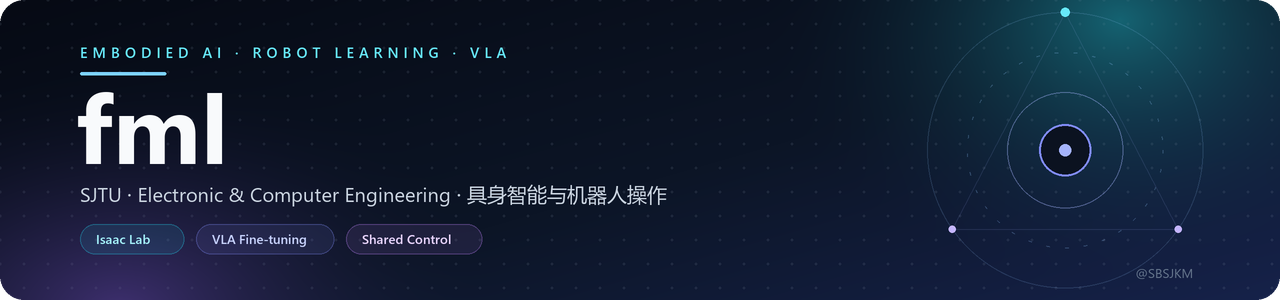
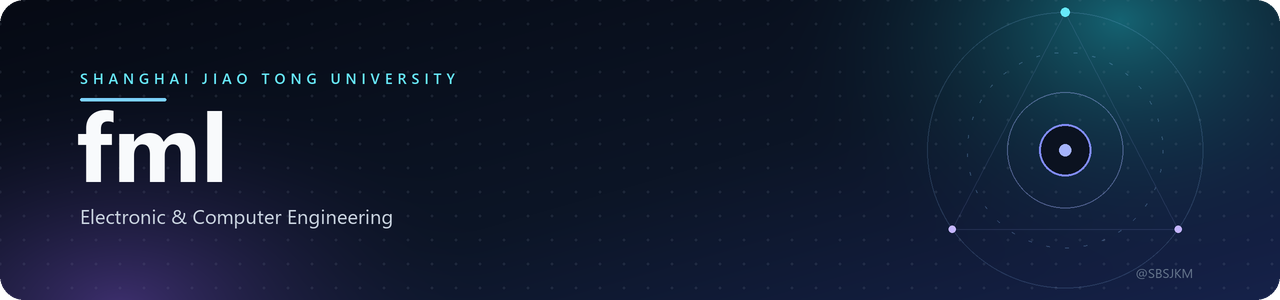
chore: simplify profile to name, school, email

diff --git a/README.md b/README.md
@@ -4,7 +4,7 @@
 -->
 
 <div align="center">
-  <img src="assets/banner.svg" alt="fml · Embodied AI · Robot Learning · VLA" width="100%" />
+  <img src="assets/banner.svg" alt="fml · Shanghai Jiao Tong University" width="100%" />
 </div>
 
 <p align="center">
@@ -14,54 +14,10 @@
 
 ## 👋 你好，我是 fml
 
-本科在读，方向是**具身智能**。我喜欢把「机器人怎么学会干活」拆成一个个具体的小问题：
-**数据从哪来、仿真像不像真、人怎么插手最省力、推理延迟怎么藏起来。**
+上海交通大学 · 电子与计算机工程（ECE）· 本科在读
 
-- 🎓 **上海交通大学（SJTU）** · 电子与计算机工程（ECE）
-- 🔬 研究兴趣：机器人操作的**数据效率** —— 人类干预数据、人机共享控制、仿真到真机的迁移
-- 🧪 手头在做：VLA 模型微调基准（`π0.5` / `GR00T N1.7`）+ Isaac Lab 场景与数据生成
-- 🦿 也折腾过：四足机器人稀疏地形运动、视觉语言导航（VLN）
-- 📮 邮箱：sbsjkm13@sjtu.edu.cn
-
-## 🧰 技术栈
-
-<p>
-  <img src="https://img.shields.io/badge/Python-3776AB?style=for-the-badge&logo=python&logoColor=white" alt="Python" />
-  <img src="https://img.shields.io/badge/C%2B%2B-00599C?style=for-the-badge&logo=cplusplus&logoColor=white" alt="C++" />
-  <img src="https://img.shields.io/badge/PyTorch-EE4C2C?style=for-the-badge&logo=pytorch&logoColor=white" alt="PyTorch" />
-  <img src="https://img.shields.io/badge/Isaac_Lab-76B900?style=for-the-badge&logo=nvidia&logoColor=white" alt="Isaac Lab" />
-  <img src="https://img.shields.io/badge/LeRobot-FFD21E?style=for-the-badge&logo=huggingface&logoColor=black" alt="LeRobot" />
-  <img src="https://img.shields.io/badge/ROS_2-22314E?style=for-the-badge&logo=ros&logoColor=white" alt="ROS 2" />
-  <img src="https://img.shields.io/badge/Linux-FCC624?style=for-the-badge&logo=linux&logoColor=black" alt="Linux" />
-  <img src="https://img.shields.io/badge/Docker-2496ED?style=for-the-badge&logo=docker&logoColor=white" alt="Docker" />
-  <img src="https://img.shields.io/badge/Git-F05032?style=for-the-badge&logo=git&logoColor=white" alt="Git" />
-  <img src="https://img.shields.io/badge/LaTeX-008080?style=for-the-badge&logo=latex&logoColor=white" alt="LaTeX" />
-</p>
-
-## 📌 精选项目
-
-<a href="https://github.com/SBSJKM/hil-vla-shared-control">
-  <img align="right" width="380" src="https://opengraph.githubassets.com/1/SBSJKM/hil-vla-shared-control" alt="hil-vla-shared-control" />
-</a>
-
-### [hil-vla-shared-control](https://github.com/SBSJKM/hil-vla-shared-control)
-
-面向 VLA 微调的**人类干预数据 + 共享控制 + 实时动作块衔接（RTC）**基准。
-
-- 复现 5 种策略更新范式，窄槽装配成功率 **31% → 100%**
-- 主从接管无跳变：关节速度跳变 **13.5 → 1.16 rad/s**
-- 240 ms 跨机延迟下 RTC 平滑衔接，块边界冲击 **↓ 92.8%**
-
-`Python` · `PyTorch` · `Isaac Lab` · `LeRobot`
-
-<br clear="right"/>
-
-## 🤝 交流
-
-对**机器人操作数据**、**VLA 微调**、**人机共享控制**感兴趣，或者想一起复现某篇工作？欢迎开 Issue 或直接邮件我。
+📮 sbsjkm13@sjtu.edu.cn
 
 <div align="center">
   <img src="https://komarev.com/ghpvc/?username=SBSJKM&label=Profile%20Views&color=0EA5E9&style=flat-square" alt="Profile views" />
-  <br/><br/>
-  <sub>「把复杂留给系统，把简单留给用户。」</sub>
 </div>

diff --git a/SETUP.md b/SETUP.md
@@ -59,22 +59,18 @@ git pull --rebase origin main
 
 ## 2. 发布前检查
 
-下面的信息已经按你的要求填好，不用再改：
+主页只保留最基本的信息，不需要再改：
 
 | 位置 | 内容 |
 | --- | --- |
 | 姓名 | `fml`（没有使用真实姓名） |
 | 学校 | 上海交通大学（SJTU） |
-| 邮箱 | `sbsjkm13@sjtu.edu.cn`（页首徽章 + 关于我） |
+| 邮箱 | `sbsjkm13@sjtu.edu.cn`（页首徽章 + 正文） |
 | 用户名 | `SBSJKM`（徽章、社交预览图里都是它） |
-| 项目 | 只放了 `hil-vla-shared-control` |
 
-还需要你确认两件事：
+如果 GitHub 用户名不是 `SBSJKM`，全局替换即可（README 里约 4 处）。
 
-- 如果 GitHub 用户名不是 `SBSJKM`，请全局替换（README 里约 8 处）。
-- 想再加项目，复制「精选项目」那一节的格式即可；`opengraph.githubassets.com/1/用户名/仓库名` 的路径也要一起改。
-
-> **小提醒**：主页是给「不认识你的人」看的。项目描述里带上**量化结果**（31% → 100%、↓92.8%）比堆十个形容词有用得多。
+> 想再加项目、技术栈这类内容时，旧版本都在 git 历史里：`git show 9f3d7fc:README.md`。
 
 ---
 
@@ -84,7 +80,6 @@ git pull --rebase origin main
 - [ ] 切一次 **深色 / 浅色主题**，横幅和文字都正常
 - [ ] 手机上看一遍（GitHub App 或手机浏览器），表格/图片没有溢出
 - [ ] 所有链接点一遍，没有 404
-- [ ] 「精选项目」里的仓库确实是公开的
 
 ---
 
@@ -125,7 +120,7 @@ jobs:
 ```
 
 2. Actions → Generate Snake → Run workflow，跑完会生成 `output` 分支。
-3. 在 README 的「交流」前面加上：
+3. 在 README 末尾加上：
 
 ```html
 <div align="center">
@@ -141,7 +136,7 @@ jobs:
 
 ### ② 贡献活动图
 
-在 README 的「交流」前面加一行（可选）：
+在 README 末尾加一行（可选）：
 
 ```html
 <div align="center">
@@ -160,7 +155,7 @@ jobs:
 
 ### ⑤ 以后想加回统计卡片？
 
-主页目前没有放 `github-readme-stats`（大陆访问经常超时，删掉了）。想加回来时，把这段贴到「交流」前面：
+主页目前没有放 `github-readme-stats`（大陆访问经常超时，删掉了）。想加回来时，把这段贴到 README 末尾：
 
 ```html
 <div align="center">
@@ -247,7 +242,7 @@ jobs:
 主页只是门面，别人点进来看到的是**仓库**：
 
 - **About**：填一句话 description + 官网链接 + topics，例如
-  `robot-learning`、`vision-language-action`、`imitation-learning`、`isaac-lab`、`teleoperation`
+  `python`、`course-project`、`notes`
 - **Social preview**：Settings → Social preview，上传 `assets/social-preview.png`（1280×640，已为你生成）
 - **LICENSE**：MIT 最省事；论文类代码可以用 Apache-2.0
 - **README 模板**：一句话是什么 → 效果图/GIF → 快速开始 → 结果表格 → 引用
